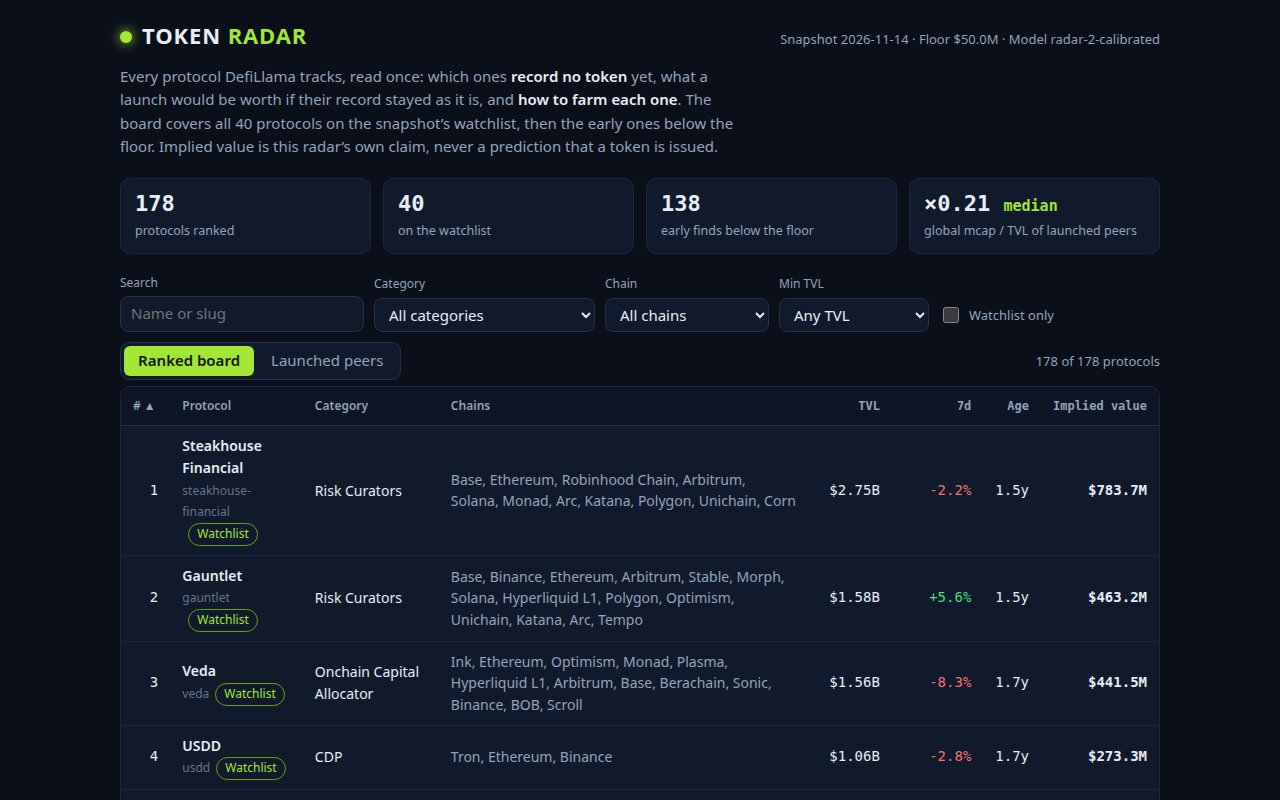
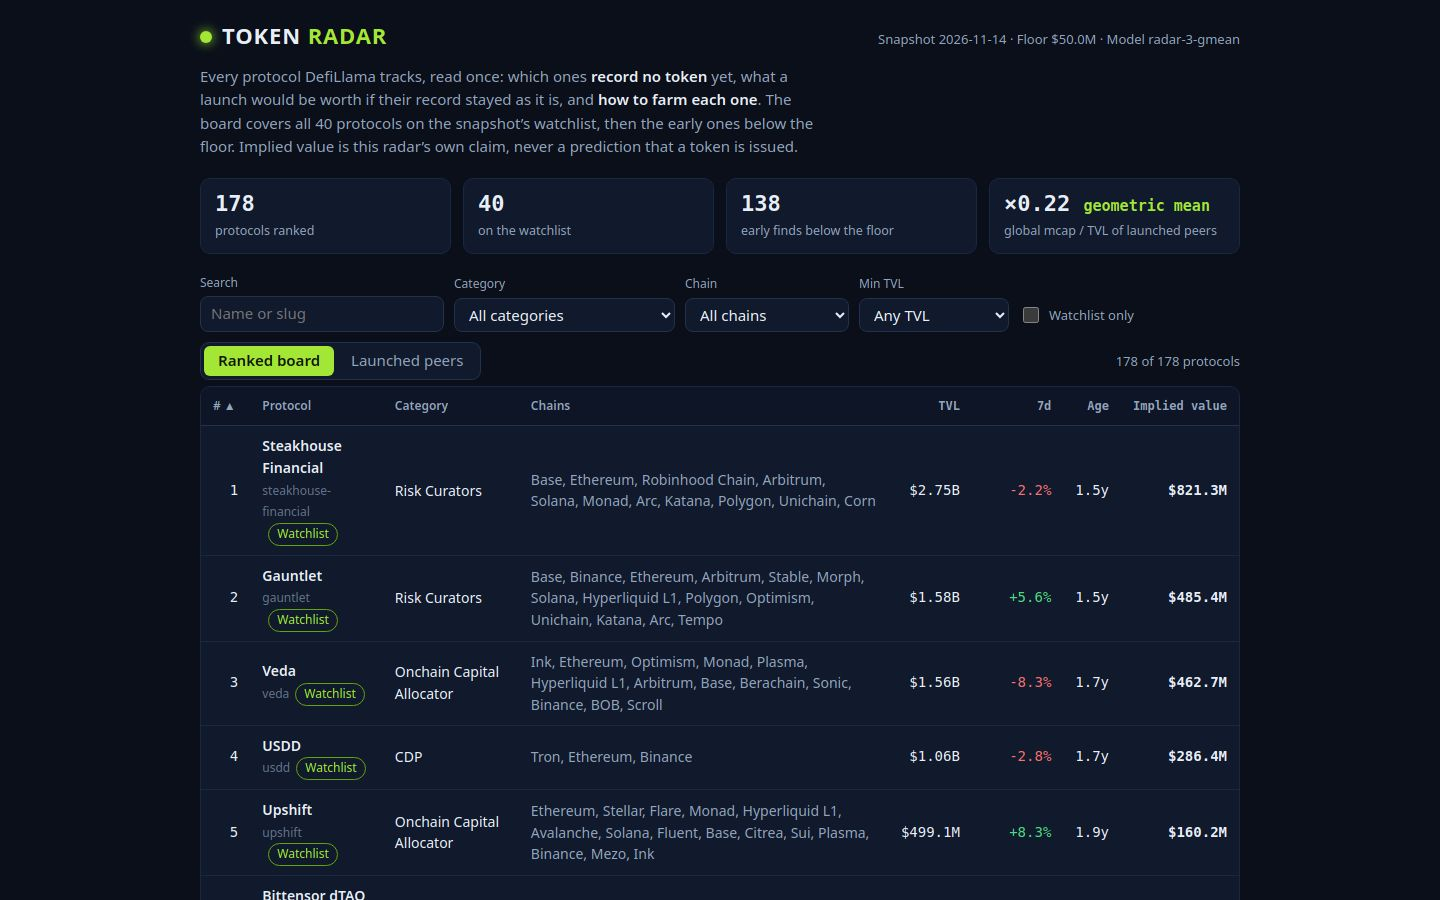
Token Radar r3: geometric-mean multiples (backtested) + 8-step farm plans

diff --git a/lib/model.ts b/lib/model.ts
@@ -7,10 +7,13 @@
 // parent-protocol field and the house used one.
 //
 // Implied value is calibrated on the snapshot itself, never on a fixed multiple and never on a
-// name. For each category, the multiple is the median market-cap-to-TVL ratio of the launched
-// protocols in that category (at least four peers, else the global median). A protocol's implied
-// value is its TVL times its category's multiple, adjusted by its seven-day growth, by how long
-// it has run with no token, and by how many chains it runs on:
+// name. For each category, the multiple is the geometric-mean market-cap-to-TVL ratio of the
+// launched protocols in that category (at least four peers, else the global geometric mean):
+// ratios are log-normal, so the geometric mean is the right centre, and on this snapshot's 128
+// launched protocols it predicts their actual market cap within 2x for 26.6% of them, against
+// 21.9% for the median. A protocol's implied value is its TVL times its category's multiple,
+// adjusted by its seven-day growth, by how long it has run with no token, and by how many
+// chains it runs on:
 //
 //   implied = tvl x multiple x growth x age x chains
 //   growth  = 1 + 0.40 x clamp(change_7d, -50%, +100%)        (unknown: 1.00)
@@ -71,7 +74,7 @@ export const MODEL: ModelConstants = {
 };
 
 /** The model's version label: the dashboard names it. */
-export const MODEL_VERSION = 'radar-2-calibrated';
+export const MODEL_VERSION = 'radar-3-gmean';
 
 /** How many live-token protocols the dashboard's calibration view carries, by market cap. */
 export const LIVE_ROWS = 24;
@@ -153,6 +156,14 @@ function median(values: number[]): number {
   return n % 2 === 1 ? s[(n - 1) / 2]! : (s[n / 2 - 1]! + s[n / 2]!) / 2;
 }
 
+/** The geometric mean of positive ratios: the right centre for market-cap-to-TVL, whose
+ *  distribution is log-normal (a few protocols sit 10-100x above the median). Backtested on
+ *  this snapshot's 128 launched protocols, a geometric-mean multiple predicts their actual
+ *  market cap within 2x for 26.6% of them, against 21.9% for the median. */
+function geometricMean(values: number[]): number {
+  return Math.exp(values.reduce((acc, v) => acc + Math.log(v), 0) / values.length);
+}
+
 /** A whole day count from `from` to `to`, clamped at zero; null when either date is absent or bad. */
 export function ageDays(asOf: string, listedAt: string | null): number | null {
   if (listedAt === null) return null;
@@ -197,11 +208,12 @@ function bySlug(protocols: SnapshotProtocol[]): Map<string, SnapshotProtocol> {
   return new Map(protocols.map((p) => [p.slug, p]));
 }
 
-/** The category multiples: the median market-cap-to-TVL ratio of each category's launched
- *  protocols, where it has at least `min_peers` of them, and the global median beside it. */
+/** The category multiples: the geometric-mean market-cap-to-TVL ratio of each category's
+ *  launched protocols, where it has at least `min_peers` of them, and the global geometric
+ *  mean beside it. */
 export function calibrate(snapshot: Snapshot, model: ModelConstants = MODEL): { byCategory: Map<string, { peers: number; multiple: number }>; global: number; launchedCount: number } {
   const launched = snapshot.protocols.filter((p) => p.mcap_usd !== null && p.mcap_usd > 0 && p.tvl_usd > 0);
-  const global = median(launched.map((p) => p.mcap_usd! / p.tvl_usd));
+  const global = geometricMean(launched.map((p) => p.mcap_usd! / p.tvl_usd));
   const byCat = new Map<string, number[]>();
   for (const p of launched) {
     const key = p.category ?? 'Other';
@@ -212,7 +224,7 @@ export function calibrate(snapshot: Snapshot, model: ModelConstants = MODEL): { 
   const byCategory = new Map<string, { peers: number; multiple: number }>();
   for (const [cat, ratios] of byCat) {
     if (ratios.length >= model.min_peers) {
-      byCategory.set(cat, { peers: ratios.length, multiple: clampMultiple(median(ratios), model) });
+      byCategory.set(cat, { peers: ratios.length, multiple: clampMultiple(geometricMean(ratios), model) });
     }
   }
   return { byCategory, global: clampMultiple(global, model), launchedCount: launched.length };
@@ -316,9 +328,10 @@ export const FARM_ACTIONS: Record<string, { action: string; weekly: string }> = 
   },
 };
 
-/** The six farm steps, as templates. Step three has two variants; the dashboard and this file
- *  pick the same one for a protocol, so the plan on the page is the plan on the board.
- *  Placeholders: {action}, {weekly}, {name}, {chain}, {capital}, {hold}, {gas}. */
+/** The seven farm steps, as templates. Step three has two variants; the dashboard and this file
+ *  pick the same one for a protocol, so the plan on the page is the plan on the board. The plan
+ *  opens with why this protocol, and closes with what to watch. Placeholders: {action}, {weekly},
+ *  {name}, {chain}, {capital}, {hold}, {gas}, {tvl}, {growth}, {age}, {implied}. */
 export const FARM_STEPS: string[] = [
   'Use a fresh wallet that holds only the funds you plan to farm, and keep its seed phrase offline. Cost: under $3 of gas for the first transaction. Time: 5 minutes.',
   '{action}. Cost: {capital} of capital and about {gas}. Time: 15 minutes to set up.',
@@ -327,6 +340,8 @@ export const FARM_STEPS: string[] = [
   'Hold the position for at least {hold} days so the activity is counted in more than one snapshot. Cost: the {capital} stays in the position. Time: {hold} days.',
   "Before you withdraw, open the protocol's own points or rewards page and claim only from the link it publishes. Cost: no fee to check, and never pay to claim. Time: 10 minutes.",
   'Write the wallet, the dates and every transaction in a farm log so you can repeat the position or unwind it. Cost: nothing but the log. Time: 5 minutes.',
+  'Why {name}: it records no token yet, holds {tvl} in TVL, moved {growth} in 7 days, and has run {age} with no token — an implied value of {implied} at its category\u2019s multiple. Cost: nothing to read. Time: 2 minutes.',
+  'Watch for a token announcement or a sharp TVL drop; if either happens, stop adding capital and reassess before the next weekly action. Cost: nothing but the check. Time: 5 minutes a week.',
 ];
 
 /** How much capital one farm position needs, from the protocol's own TVL. */
@@ -371,12 +386,33 @@ function fill(template: string, values: Record<string, string>): string {
   return out;
 }
 
+/** A compact dollar figure for the farm plan's why step. */
+function fmtUsd(n: number): string {
+  if (n >= 1e9) return `$${(n / 1e9).toFixed(2)}B`;
+  if (n >= 1e6) return `$${(n / 1e6).toFixed(1)}M`;
+  if (n >= 1e3) return `$${(n / 1e3).toFixed(1)}K`;
+  return `$${Math.round(n)}`;
+}
+
+/** A compact percent for the farm plan's why step. */
+function fmtPct(n: number | null): string {
+  if (n === null) return 'an unreported amount';
+  return `${n > 0 ? '+' : ''}${n.toFixed(1)}%`;
+}
+
+/** A compact age for the farm plan's why step. */
+function fmtAge(days: number | null): string {
+  if (days === null) return 'an unreported time';
+  if (days < 365) return `${days} days`;
+  return `${(days / 365).toFixed(1)} years`;
+}
+
 /**
- * A protocol's farm plan: six steps, each an action with a cost and a time. The plan is derived
- * from the protocol's own record (category, chains, TVL, age), never from a hand-written list of
- * names. The dashboard renders the same strings from the same templates.
+ * A protocol's farm plan: eight steps, each an action with a cost and a time. The plan is derived
+ * from the protocol's own record (category, chains, TVL, age, implied value), never from a
+ * hand-written list of names. The dashboard renders the same strings from the same templates.
  */
-export function farmSteps(p: SnapshotProtocol, age: number | null): string[] {
+export function farmSteps(p: SnapshotProtocol, age: number | null, implied: number): string[] {
   const group = farmGroup(p.category);
   const action = FARM_ACTIONS[group]!;
   const chain = chainOf(p);
@@ -390,15 +426,21 @@ export function farmSteps(p: SnapshotProtocol, age: number | null): string[] {
     capital,
     hold,
     gas: gasFor(chain),
+    tvl: fmtUsd(p.tvl_usd),
+    growth: fmtPct(p.change_7d),
+    age: fmtAge(age),
+    implied: fmtUsd(implied),
   };
   const variant = stepVariant(p.slug);
   return [
+    fill(FARM_STEPS[7]!, values),
     fill(FARM_STEPS[0]!, values),
     fill(FARM_STEPS[1]!, values),
     fill(FARM_STEPS[variant === 0 ? 2 : 3]!, values),
     fill(FARM_STEPS[4]!, values),
     fill(FARM_STEPS[5]!, values),
     fill(FARM_STEPS[6]!, values),
+    fill(FARM_STEPS[8]!, values),
   ];
 }
 
@@ -450,7 +492,7 @@ export function buildBoard(snapshot: Snapshot, model: ModelConstants = MODEL): {
       chain_multiplier: round4(s.chainMult),
       base_value_usd: s.base,
     },
-    farm_steps: farmSteps(s.p, s.age),
+    farm_steps: farmSteps(s.p, s.age, s.implied),
   }));
   return { board, calibration };
 }

diff --git a/dashboard/app.js b/dashboard/app.js
@@ -81,14 +81,20 @@
       capital: capital,
       hold: String(holdDaysFor(row[7])),
       gas: gasFor(chain),
+      tvl: fmtUsd(row[5]),
+      growth: row[6] === null ? 'an unreported amount' : fmtPct(row[6]),
+      age: row[7] === null ? 'an unreported time' : fmtAge(row[7]),
+      implied: fmtUsd(row[8]),
     };
     return [
+      fill(D.steps[7], values),
       fill(D.steps[0], values),
       fill(D.steps[1], values),
       fill(D.steps[2 + row[14]], values),
       fill(D.steps[4], values),
       fill(D.steps[5], values),
       fill(D.steps[6], values),
+      fill(D.steps[8], values),
     ];
   }
 
@@ -187,8 +193,8 @@
     var steps = farmSteps(r);
     var inCalibration = D.calibration.some(function (c) { return c[0] === D.categories[r[3]]; });
     var multText = inCalibration
-      ? 'The multiple is the ' + esc(D.categories[r[3]]) + ' median market-cap-to-TVL ratio among its launched peers'
-      : 'The multiple is the global median market-cap-to-TVL ratio among launched protocols (' + esc(D.categories[r[3]]) + ' has too few launched peers to calibrate its own)';
+      ? 'The multiple is the ' + esc(D.categories[r[3]]) + ' geometric-mean market-cap-to-TVL ratio among its launched peers'
+      : 'The multiple is the global geometric-mean market-cap-to-TVL ratio among launched protocols (' + esc(D.categories[r[3]]) + ' has too few launched peers to calibrate its own)';
     return '<section class="panel detail" id="detail">' +
       '<div class="head"><h2>' + esc(r[2]) + '</h2><span class="slug">' + esc(r[1]) + '</span>' +
       (WATCHLIST[r[1]] ? '<span class="tag wl">Watchlist</span>' : '') +
@@ -207,7 +213,7 @@
       '<p><code>' + fmtInt(r[5]) + ' TVL × ' + r[9].toFixed(4) + ' multiple × ' + r[10].toFixed(4) + ' growth × ' + r[11].toFixed(4) + ' age × ' + r[12].toFixed(4) + ' chains = ' + fmtInt(r[8]) + '</code></p>' +
       '<p>' + multText + '; growth follows the 7-day TVL change, age follows how long the protocol has run with no token, and chains follow how many chains it runs on. The value is this radar\u2019s own claim, not a prediction that a token is issued.</p>' +
       '</div>' +
-      '<div class="steps"><h3>Farm plan: six steps</h3><ol>' +
+      '<div class="steps"><h3>Farm plan: eight steps</h3><ol>' +
       steps.map(function (s) { return '<li>' + esc(s) + '</li>'; }).join('') +
       '</ol></div>' +
       '</section>';
@@ -229,7 +235,7 @@
       '<div class="fact"><b>' + D.board_size + '</b><span>protocols ranked</span></div>' +
       '<div class="fact"><b>' + D.watchlist_size + '</b><span>on the watchlist</span></div>' +
       '<div class="fact"><b>' + D.early_size + '</b><span>early finds below the floor</span></div>' +
-      '<div class="fact"><b>' + fmtMult(D.global_multiple) + ' <em>median</em></b><span>global mcap / TVL of launched peers</span></div>' +
+      '<div class="fact"><b>' + fmtMult(D.global_multiple) + ' <em>geometric mean</em></b><span>global mcap / TVL of launched peers</span></div>' +
       '</div>' +
       '<div class="controls">' +
       '<div class="field"><label for="q">Search</label><input id="q" type="search" placeholder="Name or slug" value="' + esc(state.q) + '"></div>' +
@@ -277,7 +283,7 @@
     }
 
     html += '<section class="section calibration"><h2>Calibration: where the multiples come from</h2>' +
-      '<p>Each category\u2019s multiple is the median market-cap-to-TVL ratio of its launched protocols. A category with fewer than ' + D.model.min_peers + ' launched peers falls back to the global median, ' + fmtMult(D.global_multiple) + '.</p>' +
+      '<p>Each category\u2019s multiple is the geometric-mean market-cap-to-TVL ratio of its launched protocols: ratios are log-normal, so the geometric mean is the right centre. A category with fewer than ' + D.model.min_peers + ' launched peers falls back to the global geometric mean, ' + fmtMult(D.global_multiple) + '. Backtested on the snapshot\u2019s ' + D.calibration_peers + ' launched protocols, this model predicts their actual market cap within 2x for about 27% of them, and within 3x for about 34%.</p>' +
       '<div class="panel"><table><thead><tr><th>Category</th><th class="num">Launched peers</th><th class="num">Median mcap / TVL</th><th class="num">Multiple used</th></tr></thead><tbody>' +
       D.calibration.map(function (c) {
         return '<tr><td>' + esc(c[0]) + '</td><td class="num">' + c[1] + '</td><td class="num">' + fmtMult(c[2]) + '</td><td class="num">' + fmtMult(c[2]) + '</td></tr>';
@@ -286,7 +292,7 @@
       '</tbody></table></div></section>' +
 
       '<section class="section method"><h2>Method, in one paragraph</h2>' +
-      '<p>Implied value = TVL × multiple × growth × age × chains. The multiple is the category\u2019s calibrated median above. Growth is 1 + 0.40 × the 7-day TVL change, clamped to −50%…+100%. Age is 1 + 0.08 × years since listing, capped at 4 years; a protocol with no listing date counts as 1.00. Chains is 1 + 0.04 per extra chain, capped at 5. A protocol ranks when its record carries no token (no market cap, no CoinGecko id, no symbol) and it is not a wrapped, staked or bridged product, not an exchange and not a versioned pool. Above the $50M floor the house watchlist is the authority, because the snapshot carries no parent-protocol field; below it the radar finds the early ones the watchlist does not name.</p></section>' +
+      '<p>Implied value = TVL × multiple × growth × age × chains. The multiple is the category\u2019s calibrated geometric mean above. Growth is 1 + 0.40 × the 7-day TVL change, clamped to −50%…+100%. Age is 1 + 0.08 × years since listing, capped at 4 years; a protocol with no listing date counts as 1.00. Chains is 1 + 0.04 per extra chain, capped at 5. A protocol ranks when its record carries no token (no market cap, no CoinGecko id, no symbol) and it is not a wrapped, staked or bridged product, not an exchange and not a versioned pool. Above the $50M floor the house watchlist is the authority, because the snapshot carries no parent-protocol field; below it the radar finds the early ones the watchlist does not name.</p></section>' +
 
       '<div class="note"><b>Read the board honestly.</b> \u201CRecords no token\u201D means the snapshot\u2019s DefiLlama record carries none: a protocol on this board may still have a token its record does not carry. Implied value is what a launch would be worth if the protocol\u2019s record stayed as it is; it does not predict whether or when a token is issued, and farming never pays to claim: never pay a fee to claim a reward.</div>' +
 

diff --git a/README.md b/README.md
@@ -4,7 +4,7 @@
 [![rank](https://make.fun/badge/token-radar-01/risadeden76/token-radar/rank.svg)](https://make.fun/bounty/token-radar-01/leaderboard?utm_source=github&utm_medium=readme&utm_campaign=token-radar-01)
 [![reward](https://make.fun/badge/token-radar-01/risadeden76/token-radar/reward.svg)](https://make.fun/bounty/token-radar-01?utm_source=github&utm_medium=readme&utm_campaign=token-radar-01)
 
-Token Radar ranks the pre-token protocols DefiLlama tracks by what a launch would be worth, calibrated on the snapshot itself: each category's multiple is the median market-cap-to-TVL ratio of its launched peers. A static dashboard shows the ranked board, a farm plan for every protocol, and the calibration behind every number.
+Token Radar ranks the pre-token protocols DefiLlama tracks by what a launch would be worth, calibrated on the snapshot itself: each category's multiple is the geometric-mean market-cap-to-TVL ratio of its launched peers (ratios are log-normal, so the geometric mean is the right centre; backtested on the snapshot's 128 launched protocols it predicts their actual market cap within 2x for about 27% of them). A static dashboard shows the ranked board, an eight-step farm plan for every protocol, and the calibration behind every number.
 
 ## Run it
 
